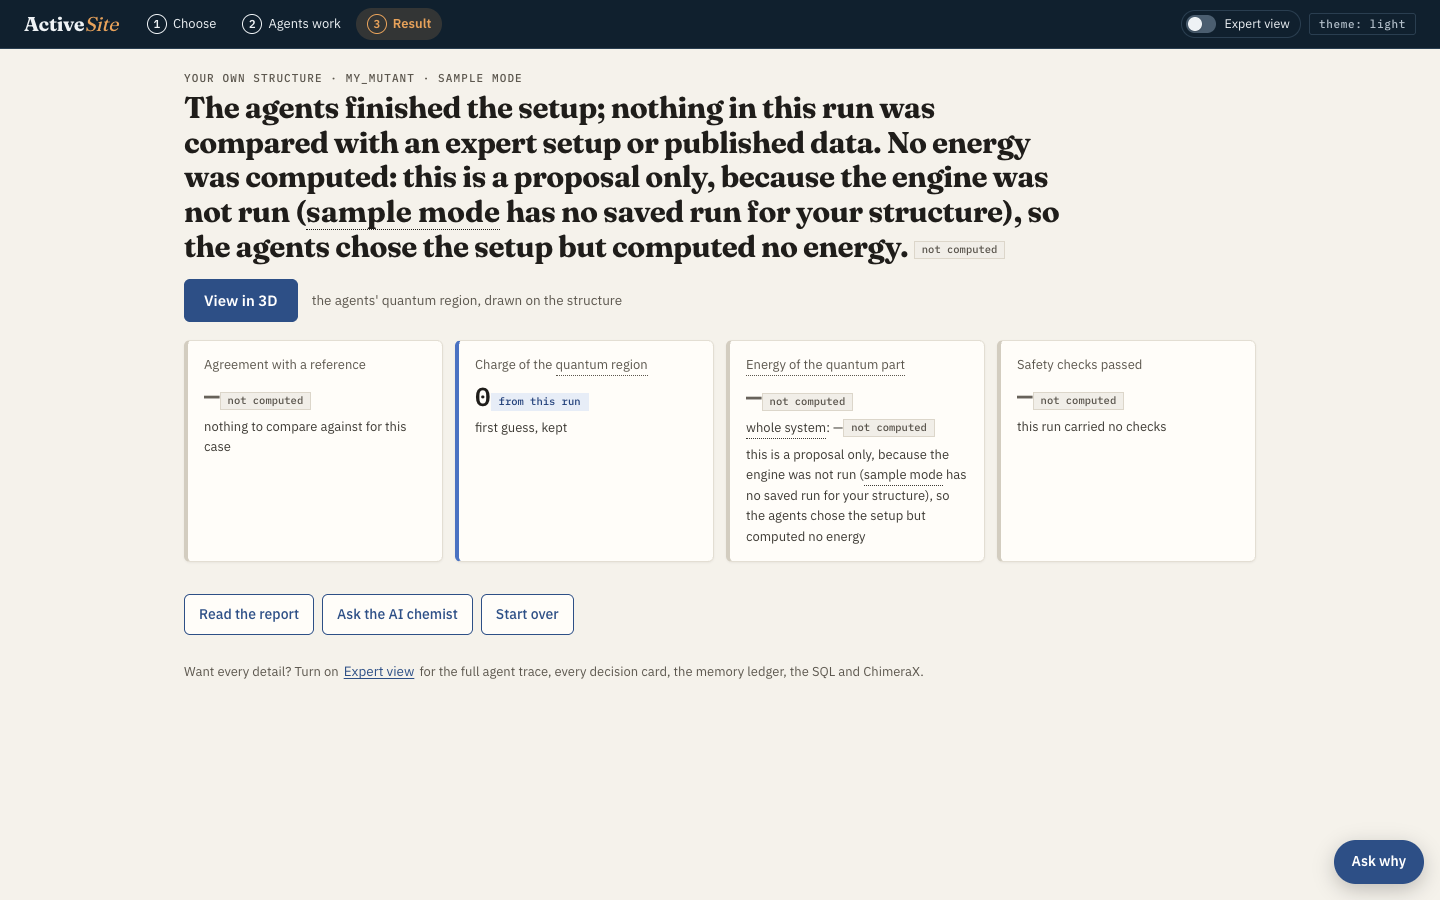
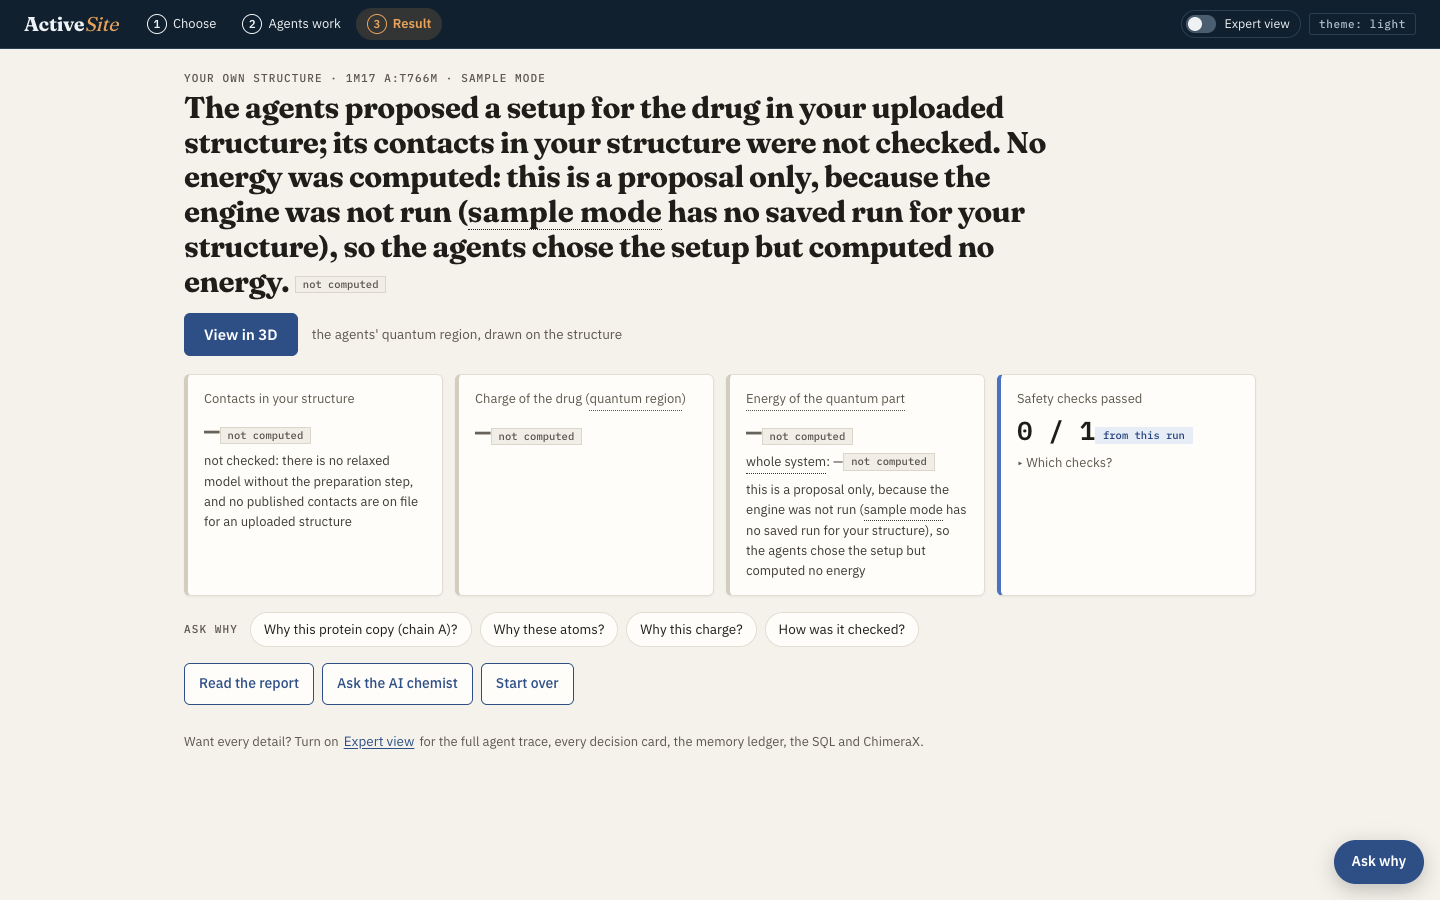
P29 fix: an uploaded structure's sample-mode stop reads as information, not an error
Why: against the real backend, a custom run in sample mode stops after proposing the setup (no cached prep,
by design), but the UI showed it as failures: a greedy regex leaked "prep available];BLOCKING[prep available",
the Orchestrator 'blocked' event read 'could not finish “blocked”' in red, the proposal-only energy line was red,
the skipped prep step read as '✓ Prepared the protein', contacts were said to be compared with the published
structure, and the status read 'Finished · no energy' in red.

The events are honest, so the fix is in the page: expectedStop() matches only that stop (summary says
'proposal only'/'never replayed', or a custom run whose blocking list is exactly prep_available) and maps it
to one amber line, 'Preparation and the energy step need Docker; in sample mode the agents stop after proposing
the setup.' Real blocks stay red, now in plain words ('“the drug sits in its crystal pocket” did not hold').
precheck lists are parsed properly, and plainInternals() strips list reprs and BLOCKING markers from every
rendered sentence and trace line. Custom runs say 'your uploaded structure'; status is amber 'Proposal only'.
Upload-result screenshots retaken from the real backend (1m17 + A:T766M).

diff --git a/activesite/server/index.html b/activesite/server/index.html
@@ -484,6 +484,9 @@
   .checklist li .ic { font-weight: 700; text-align: center; color: var(--muted); }
   .checklist li.c-ok .ic { color: var(--exp-fg); } .checklist li.c-warn .ic { color: var(--rep-fg); }
   .checklist li.c-replay .ic { color: var(--rep-fg); }
+  /* expected information (e.g. a proposal-only stop in sample mode): amber, not an error */
+  .checklist li.c-info { background: var(--rep-bg); color: var(--ink); } .checklist li.c-info .ic { color: var(--rep-fg); }
+  .pill.warn { color: var(--rep-fg); background: var(--rep-bg); border-color: transparent; }
   .checklist li.c-bad { background: var(--err-bg); color: var(--err-fg); } .checklist li.c-bad .ic { color: var(--err-fg); }
   .checklist li.c-work { color: var(--accent); } .checklist li.c-work .ic { color: var(--accent); }
   .feed-head { display: flex; gap: 8px 12px; align-items: center; flex-wrap: wrap; margin-bottom: 10px; }
@@ -998,14 +1001,17 @@
   function appendStep(e) {
     const stream = $("thoughtStream");
     const ph = stream.querySelector(".placeholder"); if (ph) ph.remove();
-    const bad = ["failed", "error", "blocked"].includes(e.status);
+    // an expected sample-mode stop of an uploaded structure is information (amber), not a failure (red)
+    const expected = window.expectedStop ? expectedStop(e) : false;
+    const bad = ["failed", "error", "blocked"].includes(e.status) && !expected;
     const mid = !bad && e.status !== "ok";
     const el = document.createElement("div");
     el.className = "ev" + (bad ? " bad" : mid ? " mid" : "");
     const ts = (e.ts || "").replace("T", " ").slice(11, 19);
     const extra = [e.confidence !== null && e.confidence !== undefined ? `conf ${Number(e.confidence).toFixed(2)}` : null, e.retry_count ? `retry ${e.retry_count}` : null].filter(Boolean).join(" ");
     const badge = bad ? "red" : e.status === "ok" ? "green" : "amber";
-    el.innerHTML = `<span class="t">${escapeHtml(ts)}</span><span class="a">${escapeHtml(e.agent_name)}</span> <span class="act">${escapeHtml(e.action)}</span> <span class="badge ${badge}">${escapeHtml(e.status)}</span> ${extra ? `<span class="x">${escapeHtml(extra)}</span>` : ""}<span class="sum">${escapeHtml(e.output_summary || "")}</span>`;
+    const sum = window.plainInternals ? plainInternals(e.output_summary || "") : (e.output_summary || "");
+    el.innerHTML = `<span class="t">${escapeHtml(ts)}</span><span class="a">${escapeHtml(e.agent_name)}</span> <span class="act">${escapeHtml(e.action)}</span> <span class="badge ${badge}">${escapeHtml(expected ? "expected stop" : e.status)}</span> ${extra ? `<span class="x">${escapeHtml(extra)}</span>` : ""}<span class="sum">${escapeHtml(sum)}</span>`;
     stream.appendChild(el);
     stream.scrollTop = stream.scrollHeight;
     $("eventCount").innerText = `(${++eventCount} event${eventCount === 1 ? "" : "s"})`;
@@ -1014,7 +1020,7 @@
 
     if (nodeOf(e.agent_name) || e.agent_name === "Orchestrator") {
       const prev = stageState.get(e.action);
-      let state = stageFrom(e);
+      let state = expected ? "warn" : stageFrom(e);
       if (prev && prev.state === "error" && state === "ok") state = "warn";   // caught and fixed: amber, not green
       // the lifecycle row says what happened in plain words; the raw summary (masks, file names) stays in the Agent trace
       const plain = window.sentenceFor ? sentenceFor(e) : null;
@@ -1025,7 +1031,7 @@
     if (e.action === "run_qmmm") siteTone("run");
     if (e.action === "qmmm_result") siteTone(e.status === "ok" ? "green" : "amber");
     if (e.action === "diagnose") siteTone("amber");
-    if (e.status === "blocked") siteTone("red");
+    if (e.status === "blocked") siteTone(expected ? "amber" : "red");
     if (e.agent_name === "Orchestrator" && e.action === "done") siteTone(e.status === "ok" ? "green" : "red");
 
     if (e.run_id) {
@@ -2171,7 +2177,32 @@
     complex_integer_charge: "the whole complex has a whole-number charge",
     minimisation_relaxed: "the structure relaxed without large leftover forces",
   };
+  CHECK_PLAIN.prep_available = "the protein preparation is available";
   const plainCheck = (name) => CHECK_PLAIN[name] || String(name || "a check").replace(/_/g, " ");
+  // Generic guard: Python list reprs and marker words from server summaries never reach the reader as-is.
+  // "flagged ['a', 'b']; BLOCKING ['a']" -> "flagged a, b; blocking a"
+  function plainInternals(text) {
+    return String(text ?? "")
+      .replace(/\[\s*((?:'[^']*'|"[^"]*"|[^\[\]'"])*?)\s*\]/g, (m, inner) => inner.replace(/['"]/g, "").replace(/\s*,\s*/g, ", "))
+      .replace(/\bBLOCKING\b/g, "blocking").replace(/\]\s*;\s*/g, "; ").replace(/[\[\]]/g, "");
+  }
+  // "flagged ['x']; BLOCKING ['y']" -> {flagged: ["x"], blocking: ["y"]}
+  function precheckLists(s) {
+    const list = (re) => { const m = re.exec(s); return m ? m[1].split(",").map((x) => x.replace(/['"\s]/g, "")).filter(Boolean) : []; };
+    return {flagged: list(/flagged\s*\[([^\]]*)\]/i), blocking: list(/BLOCKING\s*\[([^\]]*)\]/)};
+  }
+  // The expected stop of an uploaded structure in sample mode: preparation and energy need Docker, so the agents stop after
+  // proposing the setup. Information, not an error. Real blocks (a pocket check failing, …) are not matched here.
+  const PROPOSAL_STOP = "Preparation and the energy step need Docker; in sample mode the agents stop after proposing the setup.";
+  function expectedStop(e) {
+    const s = String(e.output_summary || "");
+    if (/proposal only|never replayed from cached output/i.test(s)) return true;
+    if (/precheck/.test(e.action || "") && customRun) {
+      const {blocking} = precheckLists(s);
+      return blocking.length > 0 && blocking.every((b) => b === "prep_available");
+    }
+    return false;
+  }
   // st (optional): the run's stats; an uploaded structure in sample mode is labelled "proposal only" by the server
   function plainReason(errs, st) {
     const e = (Array.isArray(errs) ? errs : [errs]).filter(Boolean).join("; ");
@@ -2184,11 +2215,18 @@
     if (e) return "the engine reported an error (the exact message is in the report and in Expert view)";
     return "the engine returned no value";
   }
+  // "QM/MM not run: blocked by pocket_built: …" -> "“the drug sits in its crystal pocket” did not hold"
+  function plainBlock(s) {
+    const names = [...String(s).matchAll(/blocked by ([a-z_]+)/gi)].map((m) => m[1]);
+    if (names.length) return names.map((n) => `“${plainCheck(n)}” did not hold`).join("; ");
+    return plainInternals(String(s).replace(/^QM\/MM not run:\s*/i, "")) || "a safety check did not hold";
+  }
   function sentenceFor(e) {
     const a = e.agent_name || "", act = e.action || "", st = String(e.status || ""), s = String(e.output_summary || "");
     const bad = ["failed", "error", "blocked"].includes(st);
     const key = a.replace(/^Ligand/, "") + "." + act;
     let m;
+    if (expectedStop(e) && key !== "Orchestrator.done" && key !== "Orchestrator.engine") return ["info", PROPOSAL_STOP];
     switch (key) {
       case "Planner.plan":
         m = /(\d+) steps?.*?theory (\S+?)(?:,|$)/.exec(s);
@@ -2207,8 +2245,10 @@
           return ["ok", q !== null ? `First guess for the charge of the quantum region: ${q} (textbook rule from the residues' formal charges).` : "Chose the charge of the quantum region."]; }
       case "Critic.precheck":
         if (st === "ok") return ["ok", "The Critic checked the setup before running: everything passed."];
-        m = /\[(.*)\]/.exec(s);
-        return ["warn", `The Critic flagged a concern before running: ${m ? m[1].split(",").map((x) => plainCheck(x.replace(/['\s]/g, ""))).map((x) => `“${x}” did not hold`).join("; ") : s}.`];
+        { const {flagged, blocking} = precheckLists(s);
+          const said = (xs) => xs.map((x) => `“${plainCheck(x)}” did not hold`).join("; ");
+          if (blocking.length) return ["bad", `The Critic stopped the run before the calculation: ${said(blocking)}.`];
+          return ["warn", `The Critic flagged a concern before running: ${flagged.length ? said(flagged) : plainInternals(s)}.`]; }
       case "Runner.run_qmmm":
         return st === "running" ? ["work", "Running the calculation…"] : null;
       case "Runner.cached_engine_output":
@@ -2224,6 +2264,8 @@
       case "Critic.postcheck":
         return ["ok", "Compared the quantum region with the lab expert's."];
       case "Critic.validate":
+        if (customRun) return /skipped/i.test(s) ? ["info", "Did not check the drug's contacts in your uploaded structure: there is no relaxed model without the preparation step."]
+                                                  : ["ok", "Compared the drug's contacts with your uploaded structure."];
         m = /(\d+)\/(\d+) recovered/.exec(s);
         return ["ok", m ? `Compared the drug's contacts with the published structure: ${m[1]} of ${m[2]} found.` : "Compared the drug's contacts with the published structure."];
       case "Setup.choose_chain":
@@ -2239,8 +2281,9 @@
       case "Setup.recall":
         return /rule recalled: True/.test(s) ? ["ok", "Recalled a lesson from an earlier run."] : ["ok", "Checked memory for earlier lessons: none apply here."];
       case "Setup.prep":
-        return st === "cached" ? ["replay", "Sample mode: loaded the saved protein preparation (protonation and drug parameters) instead of running it now."]
-                               : [bad ? "bad" : "ok", bad ? "Preparing the protein failed." : "Prepared the protein (protonation and drug parameters)."];
+        if (st === "cached") return ["replay", "Sample mode: loaded the saved protein preparation (protonation and drug parameters) instead of running it now."];
+        if (st === "skipped") return ["info", "Skipped preparing the protein (protonation and drug parameters) in this run."];
+        return [bad ? "bad" : "ok", bad ? "Preparing the protein failed." : "Prepared the protein (protonation and drug parameters)."];
       case "Explainer.cards":
         m = /(\d+) decision cards/.exec(s);
         return ["ok", m ? `Wrote ${m[1]} decision cards, one per choice, with evidence.` : "Wrote the decision cards."];
@@ -2249,10 +2292,12 @@
       case "Orchestrator.done":
         return st === "ok" ? ["ok", "Finished."] : ["bad", "Finished with problems: see the result."];
       case "Orchestrator.engine":
-        return ["bad", `No energy was computed: ${plainReason(s)}.`];
+        return [/proposal only/i.test(s) ? "info" : "bad", `No energy was computed: ${plainReason(s)}.`];
+      case "Orchestrator.blocked":
+        return ["bad", `The run stopped before the calculation: ${plainBlock(s)}.`];
     }
     if (a === "Server" || a === "ChimeraX") return null;      // failures are shown by flowFail; viewer actions are not run steps
-    if (bad) return ["bad", `${a || "An agent"} could not finish “${String(act).replace(/_/g, " ")}”.`];
+    if (bad) return ["bad", `${a || "An agent"} could not finish “${String(act).replace(/_/g, " ")}”${s ? `: ${plainInternals(s)}` : ""}.`];
     return [st === "cached" ? "replay" : "ok", `${a || "An agent"} finished the step “${String(act).replace(/_/g, " ")}”.`];
   }
   function flowStep(e) {
@@ -2266,11 +2311,11 @@
     flow.lines.push({tone, text});
     renderChecklist();
   }
-  const ICON = {ok: "✓", warn: "↻", replay: "↺", bad: "✕", work: "…"};
+  const ICON = {ok: "✓", warn: "↻", replay: "↺", bad: "✕", work: "…", info: "ℹ"};
   function renderChecklist() {
     const lines = flow.lines.slice();
     if (flow.running && !lines.some((l) => l.tone === "work")) lines.push({tone: "work", text: "Working…"});
-    $("flowChecklist").innerHTML = lines.map((l) => `<li class="c-${l.tone}"><span class="ic" aria-hidden="true">${l.tone === "work" ? '<span class="spinner"></span>' : ICON[l.tone]}</span><span>${glossify(l.text)}</span></li>`).join("");
+    $("flowChecklist").innerHTML = lines.map((l) => `<li class="c-${l.tone}"><span class="ic" aria-hidden="true">${l.tone === "work" ? '<span class="spinner"></span>' : ICON[l.tone]}</span><span>${glossify(plainInternals(l.text))}</span></li>`).join("");
   }
   function flowFail(msg) {
     flow.running = false; flow.failed = msg || "unknown error";
@@ -2291,9 +2336,10 @@
     flow.running = false; flow.done = true; flow.payload = payload;
     flow.lines = flow.lines.filter((l) => l.tone !== "work");
     renderChecklist();
-    const ok = (payload.stats || {}).qm_ok;
+    const pst = payload.stats || {}, ok = pst.qm_ok;
+    const proposal = !ok && (pst.custom || customRun) && /proposal only/i.test(String(pst.engine_label || "") + (pst.errors || []).join(" "));
     $("s2h").innerText = "The agents finished";
-    setFlowStatus(ok ? "Finished" : "Finished · no energy", ok ? "ok" : "bad");
+    setFlowStatus(ok ? "Finished" : proposal ? "Proposal only" : "Finished · no energy", ok ? "ok" : proposal ? "warn" : "bad");
     $("flowRunBtn").disabled = false;
     $("flowSeeResult").hidden = false; $("flowRetry").hidden = false;
     renderResult(payload);
@@ -2318,9 +2364,15 @@
     if (v && typeof v === "object" && "recovered" in v) {
       const n = Object.keys(v.recovered || {}).length, pub = v.published;
       const pocket = checks.filter((c) => c.name === "pocket_built" || c.name === "pocket_min");
-      let s = pocket.length ? (pocket.every((c) => c.passed) ? "The drug sits in its crystal pocket" : "The drug did not stay in its crystal pocket") : "The drug was placed in its pocket";
+      const custom = !!(st.custom || customRun);
+      let s = pocket.length ? (pocket.every((c) => c.passed) ? "The drug sits in its crystal pocket" : "The drug did not stay in its crystal pocket")
+            : custom ? "The agents proposed a setup for the drug in your uploaded structure" : "The drug was placed in its pocket";
       if (pocket.length) provs.add("run");
-      if (v.available === false || !isNum(pub)) { s += "; its contacts with the protein were not compared with published data"; provs.add("nc"); }
+      if (v.available === false || !isNum(pub)) {
+        // an uploaded structure has no published contacts on file; say what was (not) checked against it
+        s += custom ? "; its contacts in your structure were not checked" : "; its contacts with the protein were not compared with published data";
+        provs.add("nc");
+      }
       else {
         provs.add("expert");
         s += `; ${n} of ${pub} published contacts ${n === 1 ? "is" : "are"} present`;
@@ -2341,7 +2393,9 @@
         }
       }
       out.push(s + ".");
-      if ((st.blocked || []).length) { out.push(`The run stopped at a safety check: ${st.blocked.map(plainCheck).join(", ")}.`); provs.add("run"); }
+      // the expected proposal-only stop (uploaded structure, sample mode) is explained by the energy sentence below, not as a failed check
+      const realBlocks = (st.blocked || []).filter((b) => !(b === "prep_available" && (st.custom || customRun) && /proposal only/i.test(String(st.engine_label || "") + (st.errors || []).join(" "))));
+      if (realBlocks.length) { out.push(`The run stopped at a safety check: ${realBlocks.map(plainCheck).join(", ")} did not hold.`); provs.add("run"); }
     } else if (v && typeof v === "object" && ("jaccard" in v || "expert_mask_present" in v)) {
       const c = metalCounts(v, st);
       let s;
@@ -2390,7 +2444,8 @@
     // 1. agreement with an independent reference
     if (isLig) {
       const rec = Object.entries(v.recovered || {});
-      if (!isNum(v.published) || v.available === false) tile("Published contacts found", "—", "nc", [`<div class="fact">no published contacts on file for this case</div>`]);
+      if ((st.custom || customRun) && (!isNum(v.published) || v.available === false)) tile("Contacts in your structure", "—", "nc", [`<div class="fact">not checked: there is no relaxed model without the preparation step, and no published contacts are on file for an uploaded structure</div>`]);
+      else if (!isNum(v.published) || v.available === false) tile("Published contacts found", "—", "nc", [`<div class="fact">no published contacts on file for this case</div>`]);
       else {
         const items = rec.map(([k, d]) => `<li data-prov="expert">✓ ${glossify(k)}: ${glossify(num(d, 2) + " Å")} apart (a hydrogen-bond distance)${chip("expert")}</li>`)
           .concat((v.missed || []).map((k) => `<li>✕ ${glossify(k)}: not found</li>`))

diff --git a/tests/test_ui_upload_flow.py b/tests/test_ui_upload_flow.py
@@ -40,9 +40,25 @@ STEPS = [{"ts": "2026-10-27T10:00:00", "agent_name": "Planner", "action": "plan"
          {"ts": "2026-10-27T10:00:01", "agent_name": "Orchestrator", "action": "done", "status": "ok", "output_summary": "done"}]
 
 
-def _sse():
-    body = "".join(f"event: step\ndata: {json.dumps(s)}\n\n" for s in STEPS)
-    return body + f"event: result\ndata: {json.dumps(RESULT)}\n\n"
+def _sse(steps=None, result=None):
+    body = "".join(f"event: step\ndata: {json.dumps(s)}\n\n" for s in (steps or STEPS))
+    return body + f"event: result\ndata: {json.dumps(result or RESULT)}\n\n"
+
+
+# The event sequence the real backend sends for an uploaded structure in sample mode (1m17 + A:T766M, 2026-10-27).
+_PROPOSAL = "proposal only: engine not run (sample mode); uploaded structures are never replayed from cached output"
+REAL_STEPS = [
+    {"agent_name": "Planner", "action": "plan", "status": "ok", "output_summary": "6 steps, theory PM6, mode fallback"},
+    {"agent_name": "LigandSetup", "action": "prep", "status": "skipped", "output_summary": _PROPOSAL},
+    {"agent_name": "LigandCritic", "action": "precheck", "status": "blocked", "output_summary": "flagged ['prep_available']; BLOCKING ['prep_available']"},
+    {"agent_name": "Orchestrator", "action": "blocked", "status": "error", "output_summary": "QM/MM not run: " + _PROPOSAL},
+    {"agent_name": "LigandCritic", "action": "validate", "status": "ok", "output_summary": "no minimised model; validation skipped"},
+    {"agent_name": "Orchestrator", "action": "done", "status": "ok", "output_summary": "qm_ok False, blocked ['prep_available'], memory_used True"}]
+REAL_RESULT = json.loads(json.dumps(RESULT))
+REAL_RESULT["stats"].update(blocked=["prep_available"], sample_mode=True, errors=["blocked by prep_available: " + _PROPOSAL],
+                            custom={"structure_id": "s_mock1", "name": "my_mutant", "mutations": ["A:Y61F"]})
+REAL_RESULT["validation"] = {"published": 0, "recovered": {}, "missed": [], "expected_absent": {}, "extra": [], "contacts": [], "available": False}
+REAL_RESULT["checks"] = [{"name": "prep_available", "passed": False, "detail": _PROPOSAL}]
 
 
 def _chromium(p):
@@ -53,7 +69,7 @@ def _chromium(p):
         pytest.skip(f"no Chromium for Playwright: {exc}")
 
 
-def _page(browser, upload_status=200, calls=None, run_error=None):
+def _page(browser, upload_status=200, calls=None, run_error=None, steps=None, result=None):
     calls = [] if calls is None else calls
     page = browser.new_page(viewport={"width": 1280, "height": 900})
     errors = []
@@ -82,7 +98,7 @@ def _page(browser, upload_status=200, calls=None, run_error=None):
         if path == "/api/run":
             return route.fulfill(json={"stream_id": "stream_mock", "sample_mode": True})
         if path == "/run/stream":
-            return route.fulfill(status=200, content_type="text/event-stream", body=_sse())
+            return route.fulfill(status=200, content_type="text/event-stream", body=_sse(steps, result))
         return route.fulfill(status=404, json={"detail": "Not Found"})
 
     page.route("**/*", handle)
@@ -160,4 +176,51 @@ def test_run_422_is_shown_as_a_plain_message(browser, pick, detail):
     assert "[object Object]" not in page.inner_text("body")
     page.click("#flowRetry")
     assert want in page.inner_text("#byoRunErr")
+    assert not errors
+
+
+INTERNALS = ("BLOCKING", "];", "['", "could not finish", "prep available")
+
+
+def test_expected_sample_mode_stop_is_information_not_an_error(browser):
+    page, errors = _page(browser, steps=REAL_STEPS, result=REAL_RESULT)
+    page.set_input_files("#byoFile", files=[{"name": "my_mutant.pdb", "mimeType": "chemical/x-pdb", "buffer": TINY_PDB.encode()}])
+    page.wait_for_selector("#byoSummary")
+    page.click("#byoRun")
+    page.wait_for_selector("#flowSeeResult:not([hidden])")
+    s2 = page.inner_text("#flowChecklist")
+    assert not [x for x in INTERNALS if x in s2], s2
+    assert page.locator("#flowChecklist li.c-bad").count() == 0
+    info = page.locator("#flowChecklist li.c-info").all_inner_texts()
+    assert any("Preparation and the energy step need Docker; in sample mode the agents stop after proposing the setup." in t for t in info)
+    assert any("No energy was computed: this is a proposal only" in t for t in info)
+    assert "your uploaded structure" in s2 and "published structure" not in s2
+    assert page.inner_text("#flowStatus") == "Proposal only" and "warn" in page.get_attribute("#flowStatus", "class")
+    page.click("#flowSeeResult")
+    s3 = page.inner_text("#screen3")
+    assert not [x for x in INTERNALS if x in s3] and "safety check" not in s3 and "published data" not in s3
+    page.click("#expertSwitch")
+    page.evaluate("document.querySelector('#traceFold').open = true")
+    assert page.locator("#stages .st.error").count() == 0 and page.locator("#thoughtStream .ev.bad").count() == 0
+    assert "BLOCKING" not in page.inner_text("#thoughtStream") and "];" not in page.inner_text("#thoughtStream")
+    assert page.locator("#pipeline .node.fail").count() == 0
+    assert not errors
+
+
+def test_real_block_stays_red_in_plain_words_and_sanitizer(browser):
+    page, errors = _page(browser)
+    page.evaluate("customRun = null; flow.running = true; flow.lines = []; flow.seen = new Set()")
+    page.evaluate("""() => {
+      flowStep({agent_name: 'LigandCritic', action: 'precheck', status: 'blocked', output_summary: "flagged ['pocket_built', 'ligand_charge_sum']; BLOCKING ['pocket_built']"});
+      flowStep({agent_name: 'Orchestrator', action: 'blocked', status: 'error', output_summary: 'QM/MM not run: blocked by pocket_built: ligand moved 4.2 A'});
+      flowStep({agent_name: 'Mystery', action: 'odd_step', status: 'failed', output_summary: "x ['a', 'b']; BLOCKING ['a']"});
+    }""")
+    bad = page.locator("#flowChecklist li.c-bad").all_inner_texts()
+    assert len(bad) == 3
+    assert "The Critic stopped the run before the calculation: “the drug sits in its crystal pocket” did not hold." in bad[0]
+    assert "The run stopped before the calculation: “the drug sits in its crystal pocket” did not hold." in bad[1]
+    text = page.inner_text("#flowChecklist")
+    assert "BLOCKING" not in text and "];" not in text and "['" not in text
+    assert page.evaluate("plainInternals(\"flagged ['a', 'b']; BLOCKING ['a']\")") == "flagged a, b; blocking a"
+    assert page.evaluate("expectedStop({action: 'precheck', output_summary: \"flagged ['prep_available']; BLOCKING ['prep_available']\"})") is False
     assert not errors
